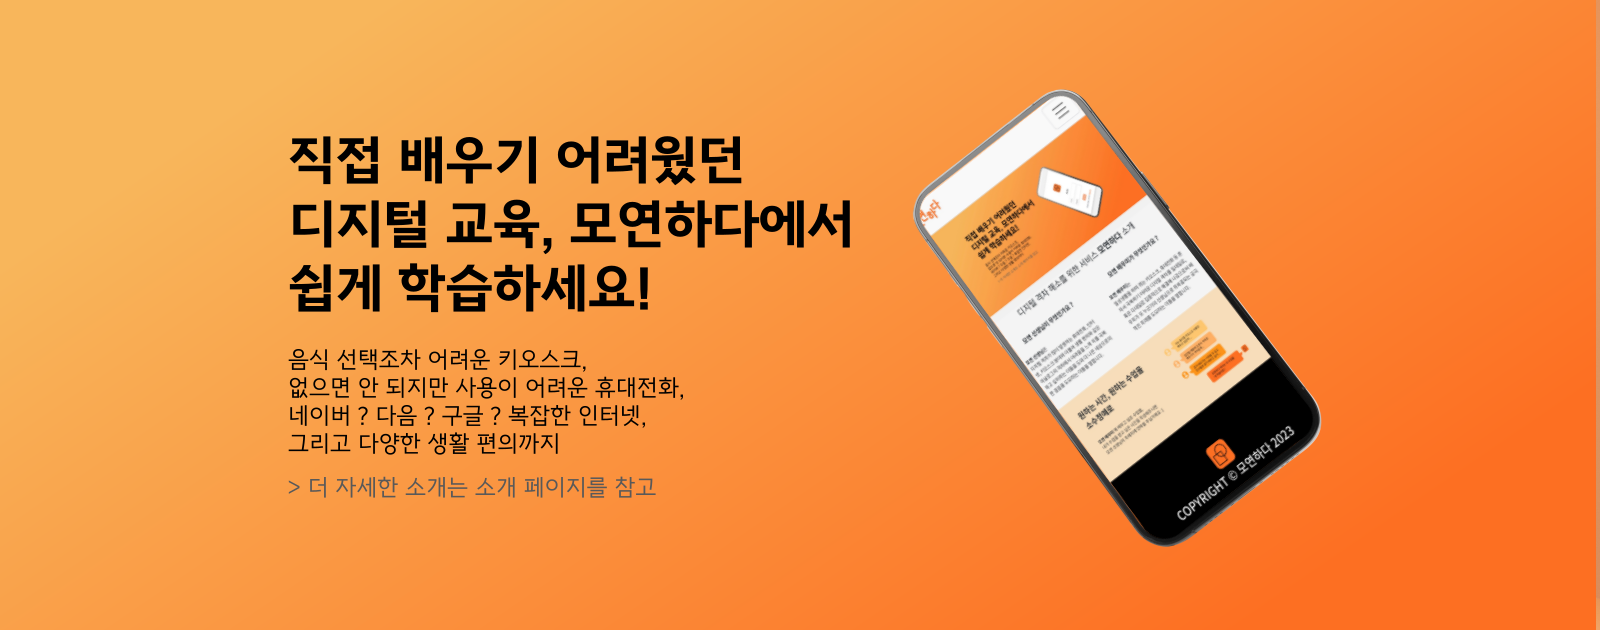
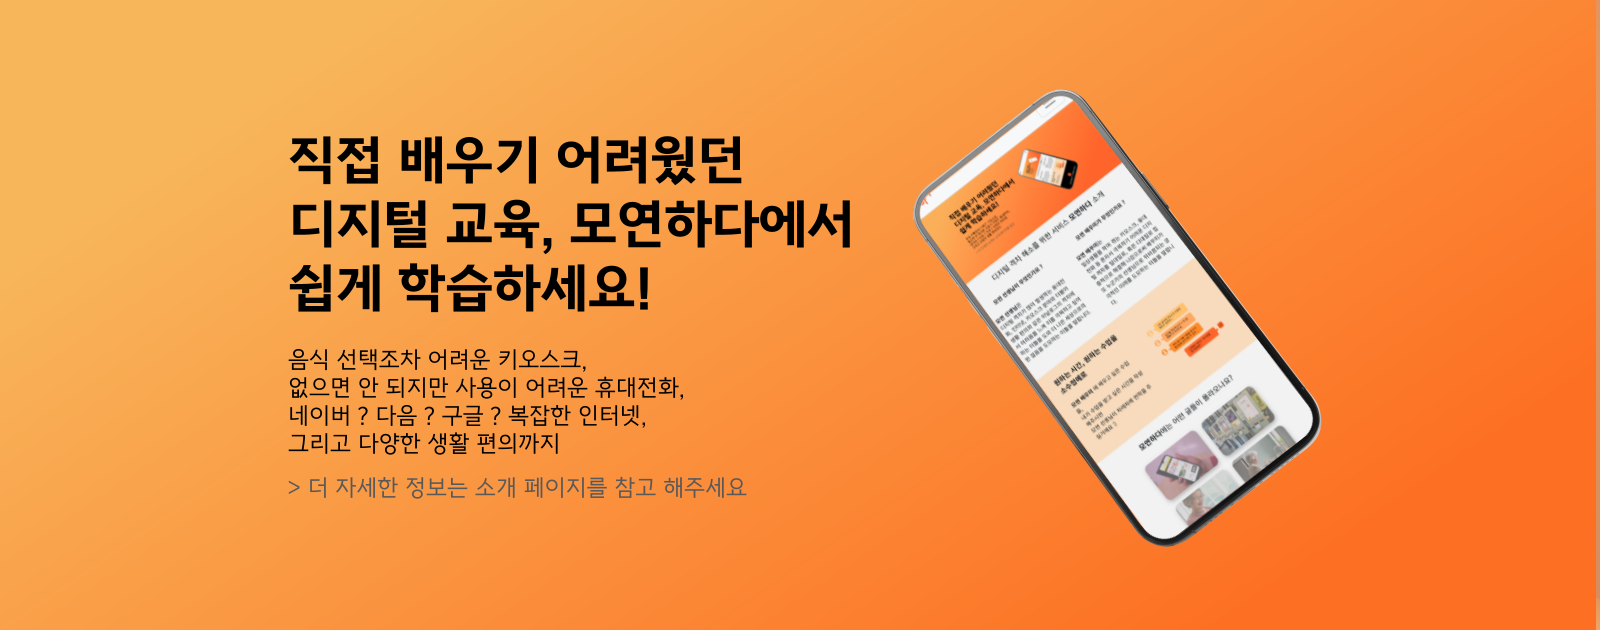
Modify main

Changed region(s): [[0.5625, 0.1508, 0.8438, 0.8746], [0.3438, 0.754, 0.4688, 0.7841], [0.25, 0.754, 0.2812, 0.7841]]

diff --git a/home/templates/main.html b/home/templates/main.html
@@ -60,18 +60,70 @@
     <div class = "main-content3 d-flex flex-column justify-content-center mx-auto">
       <p class = "inner-text1"> <b>모연하다</b>에는 어떤 글들이 올라오나요?</p>
 
-      <!-- <div class = "main-content3_wrap d-flex flex-row my-auto">
-        <div class = "main-content3_box1">
-          <p class = "inner-text1" style="text-align: left;"><b> 원하는 시간, 원하는 수업을 <br> 소수정예로</b></p>
-          <p class = "inner-text4" style="text-align: left;"> <b> 모연 배우미</b> 에 배우고 싶은 수업을, <br>
-            내가 수업을 받고 싶은 시간을 작성해주시면 <br>
-            모연 선생님이 차례차례 연락을 주실거에요 :) <br>
-          </p>
+      <div class="flip_box d-flex flex-column">
+        <div class="cols d-flex flex-row mx-auto">
+          <div class="col">
+            <div class="flip">
+              <div class="front">
+                <img src="https://cdn.sisaweek.com/news/photo/202211/200545_200430_4834.jpg" alt="">
+              </div>
+              <div class="back">
+                  <div class="inner">
+                    <p class = "inner-text1"> <b>휴대전화</b> </p>
+                    <hr>
+                    <p class = "inner-text4"> <b> #아이폰 #갤럭시 </b></p>
+                  </div>
+              </div>
+            </div>
+          </div>
+          <div class="col">
+            <div class="flip">
+              <div class="front">
+                <img src="https://cdn.foodnews.co.kr/news/photo/202110/94179_54762_1837.jpg" alt="">
+              </div>
+              <div class="back">
+                <div class="inner">
+                  <p class = "inner-text1"> <b>키오스크</b> </p>
+                  <hr>
+                  <p class = "inner-text4"> <b> #맥도날드 #스타벅스 </b></p>
+                </div>
+              </div>
+            </div>
+          </div>
         </div>
-        <div class = "main-content3_box2">
-          <img src="{% static 'img/phone.jpg' %}" alt="모연하다 메인 채팅" class="mainIntro-img">
+
+        <div class="cols d-flex flex-row">
+          <div class="col">
+            <div class="flip">
+              <div class="front">
+                <img src="https://health.chosun.com/site/data/img_dir/2023/05/09/2023050901855_0.jpg" alt="">
+              </div>
+              <div class="back">
+                <div class="inner">
+                  <p class = "inner-text1"> <b>인터넷</b> </p>
+                  <hr>
+                  <p class = "inner-text4"> <b> #이메일 #홈페이지 </b></p>
+                </div>
+              </div>
+            </div>
+          </div>
+          <div class="col">
+            <div class="flip">
+              <div class="front">
+                <img src="https://img.hankyung.com/photo/202111/BD.28154690.1.jpg" alt="">
+              </div>
+              <div class="back">
+                <div class="inner">
+                  <p class = "inner-text1"> <b>생활편의</b> </p>
+                  <hr>
+                  <p class = "inner-text4"> <b> #생활편의 #힐링 </b></p>
+                </div>
+              </div>
+            </div>
+          </div>
         </div>
-      </div> -->
+
+      </div>
     </div>
   </div>
 </div>

diff --git a/home/static/css/main.css b/home/static/css/main.css
@@ -55,21 +55,82 @@ img.chat-img {
 }
 
 .main-content3 {
+    width: 95%;
     margin-top: 4%;
     margin-bottom: 4%;
 }
 
-.main-content3-box {
-    padding: 1.5% 7%;
+.flip_box {
+	width: 90%;
+	margin: 0 auto;
 }
 
-img.mainIntro-img {
-    width: 50%;
-    margin: 1%;
+.cols {
+    width: 80%;
+}
+
+.col {
+    width: 40%;
+	cursor: pointer;
+}
+
+.flip {
+    position: relative;
+    text-align: center;
+    transition: transform 0.8s;
+    transform-style: preserve-3d;
+    margin: 5%;
+}
+
+.col:hover .flip {
+    transform: rotateY(180deg);
+}
+
+.front,
+.back {
+	background-size: cover;
+	box-shadow: 0 4px 8px 0 rgba(0, 0, 0, 0.25);
+	border-radius: 10px;
+	background-position: center;
+	-webkit-backface-visibility: hidden;
+	backface-visibility: hidden;
+	text-align: center;
+	color: #fff;
+	font-size: 1.5rem;
+    height: 100%;
+    -webkit-backface-visibility: hidden; /* Safari */
+    backface-visibility: hidden;
+}
+
+.front {
+    background-color: #bbb;
+    color: black;
+}
+
+  /* Style the back side */
+.back {
+    position: absolute;
+	top: 0;
+	left: 0;
+	width: 100%;
+    color: white;
+    background: -webkit-linear-gradient(65deg, #f5e3c5 0%, #974507 100%);
+    transform: rotateY(180deg);
+}
+
+.front > img {
+    width: 100%;
+    border-radius: 10px;
+    opacity: 0.5;
+}
+
+.back > .inner {
+    margin: 20%;
+    padding: 0 auto;
 }
 
 /* 반응형 패드 */
-@media (max-width:900px) {
+@media screen and (max-width:900px) {
     .main-content1 {
         margin-top: 6%;
         margin-bottom: 3%;
@@ -98,7 +159,7 @@ img.mainIntro-img {
 }
 
 /* 반응형 모바일 */
-@media (max-width:500px) {
+@media screen and (max-width:500px) {
     .main-content1 {
         margin-top: 3%;
         margin-bottom: 1%;
@@ -142,5 +203,14 @@ img.mainIntro-img {
 
     .inner-text4 {
         font-size: 1.9vw;
+    }
+
+    .back > .inner {
+        margin: 5%;
+        padding: 0;
+    }
+
+    .back > .inner > .inner-text1 {
+        font-size: 3vw;
     }
 }
